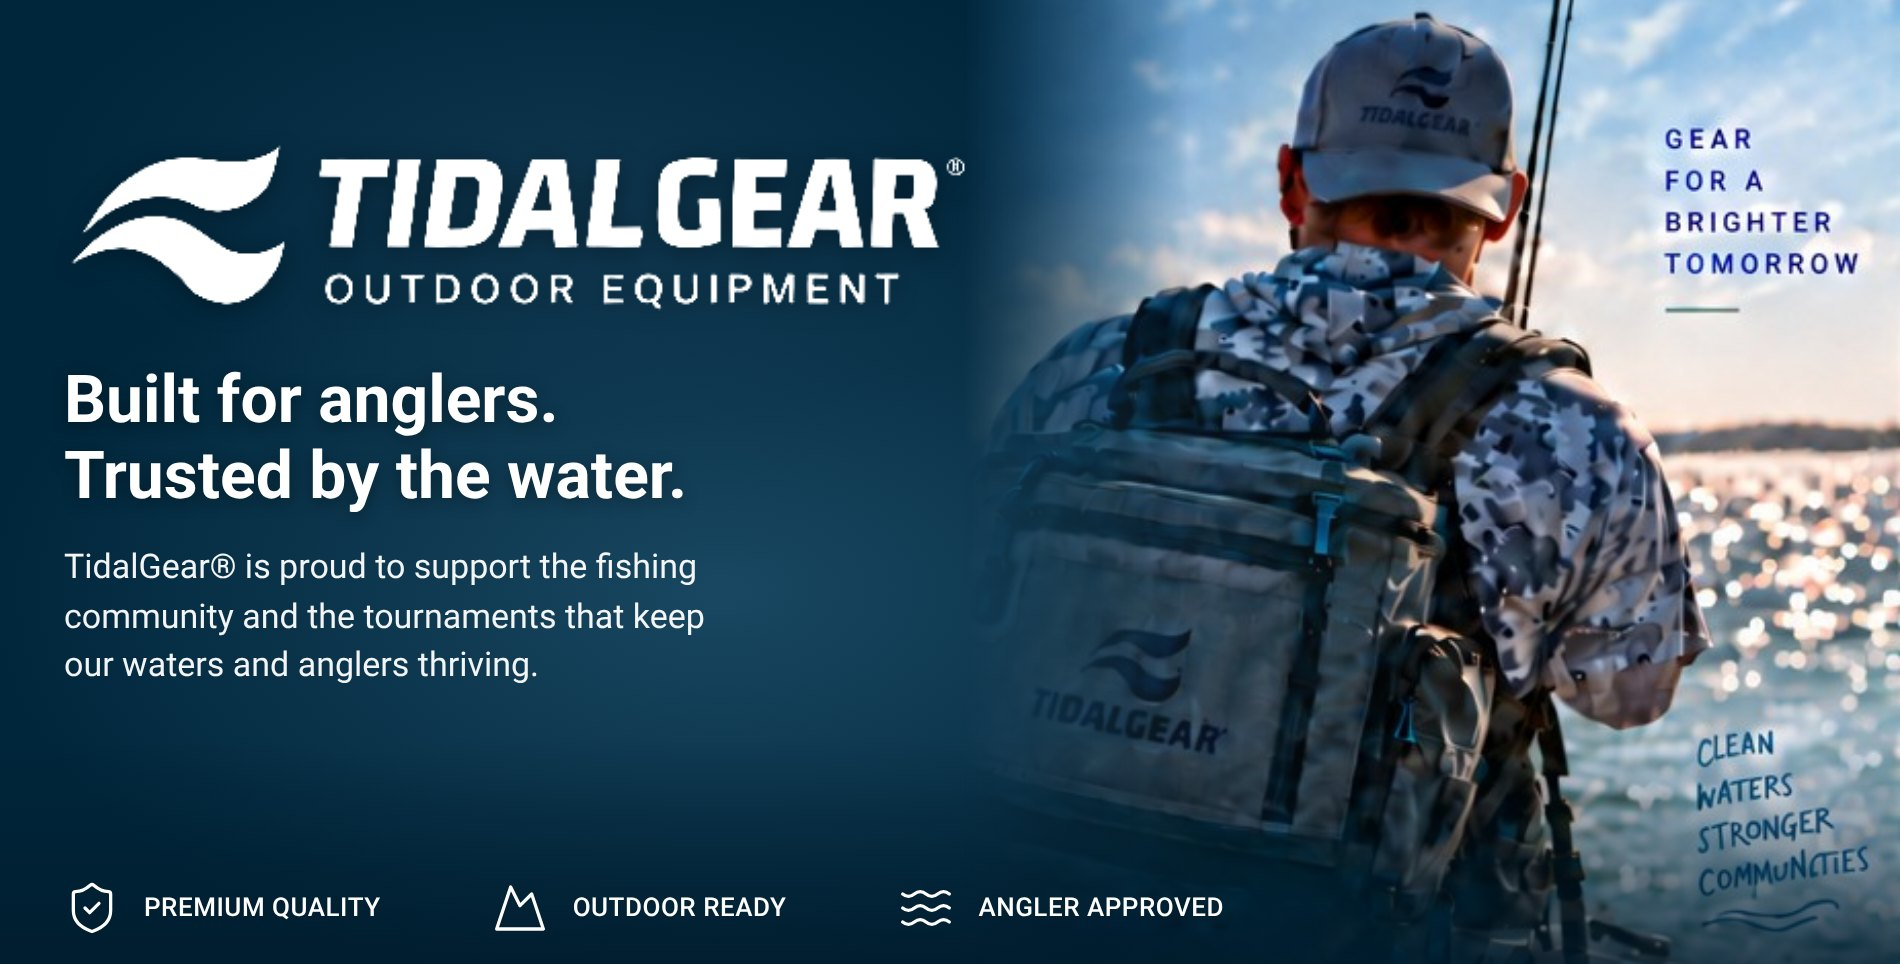
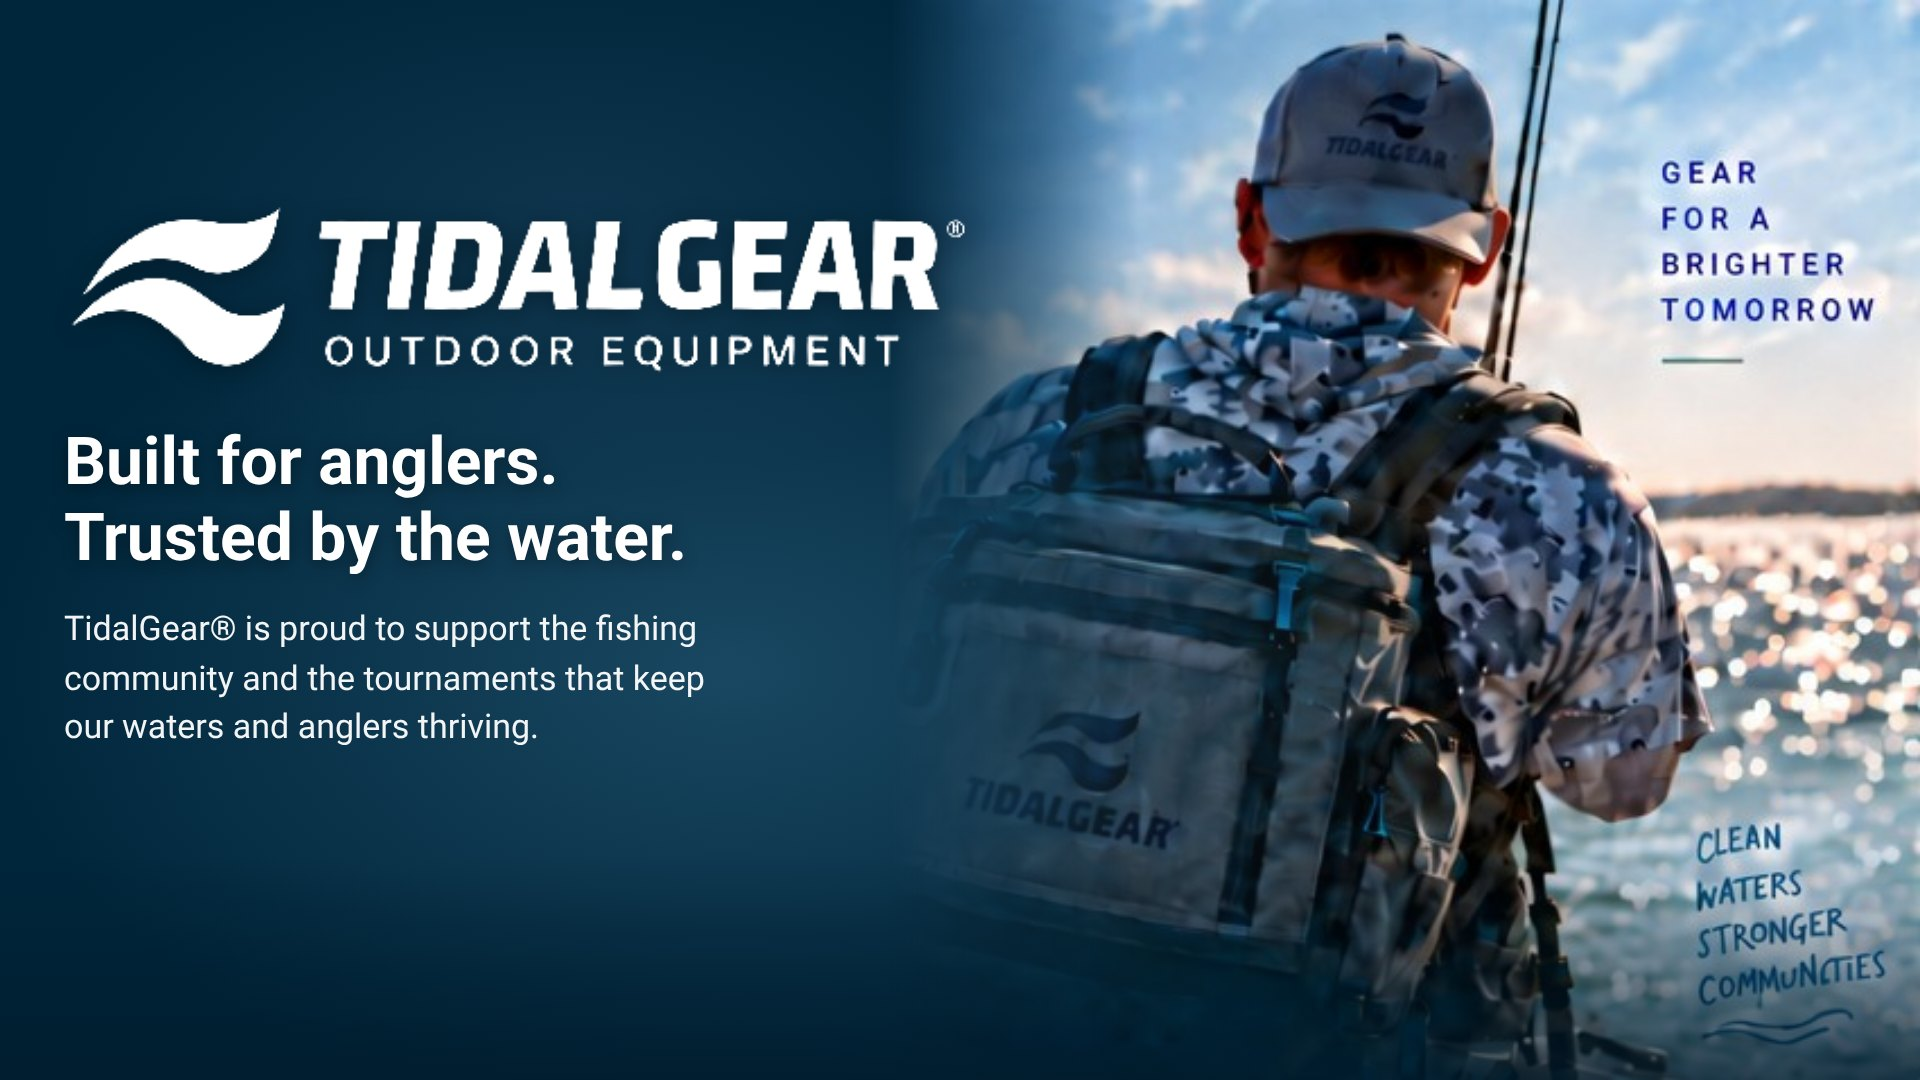
Responsive 16:9 hero at every breakpoint
- Hero is always 16:9; slide image fills it centred (object-cover), no
  blurred bands
- >= 1280px: hero + Live Now side by side; the hero sets the row height
  and the Live Now map grows/shrinks so both cards line up
- 768-1279px: hero full width, Live Now below with details left / map right
- < 768px: hero full width, Live Now stacked below
- Example slides re-exported at 1920x1080; admin now recommends 16:9

Claude-Session: https://claude.ai/code/session_01TeZCeep714KrQBXP31fbxB

diff --git a/src/components/pages/HomePage.tsx b/src/components/pages/HomePage.tsx
@@ -1,7 +1,7 @@
 'use client';
 
 import {
-  Trophy, MapPin, Users, ChevronRight, ArrowRight, ShieldCheck, Mountain, Waves, Navigation,
+  Trophy, MapPin, CalendarDays, Users, ChevronRight, ArrowRight, ShieldCheck, Mountain, Waves,
 } from 'lucide-react';
 import { useEffect, useState } from 'react';
 import { Tournament, Submission, User, SearchParams, HeroSlide, HomeBanner } from '@/types';
@@ -9,7 +9,6 @@ import { getActiveHeroSlides, dbHeroSlideToApp, getActiveHomeBanners, dbHomeBann
 import RecommendedSection from '@/components/home/RecommendedSection';
 import HeroCarousel from '@/components/home/HeroCarousel';
 import LeaderboardSection from '@/components/home/LeaderboardSection';
-import { mapsSearchUrl, mapsDirectionsUrl, mapsEmbedUrl } from '@/lib/eventDetail';
 
 interface HomePageProps {
   tournaments: Tournament[];
@@ -47,9 +46,7 @@ interface LiveTournament {
   day: string;
   elapsed: string;
   lastUpdate: string;
-  /** Google Maps query (same map/links as the event page's Event Location card) */
-  mapQuery: string;
-  address?: string;
+  map: string;
 }
 
 const DEMO_LIVE: LiveTournament = {
@@ -60,8 +57,7 @@ const DEMO_LIVE: LiveTournament = {
   day: 'Day 1 of 3',
   elapsed: '5h 42m',
   lastUpdate: '10:42 AM',
-  mapQuery: 'Lake Hartwell, Hartwell, GA 30643',
-  address: 'Hartwell, GA 30643',
+  map: '/home/live-map.jpg',
 };
 
 interface UpcomingCard {
@@ -72,8 +68,6 @@ interface UpcomingCard {
   anglers?: number | string;
   prizePool?: string;
   image: string;
-  /** Show the Register button only while registration is open */
-  registrationOpen: boolean;
 }
 
 const CARD_IMAGES = [
@@ -86,12 +80,12 @@ const CARD_IMAGES = [
 ];
 
 const DEMO_UPCOMING: UpcomingCard[] = [
-  { id: 'd1', name: 'Coastal Open', dates: 'JUN 7 – 8, 2025', location: 'Charleston, SC', anglers: 200, prizePool: '$100,000', image: CARD_IMAGES[0], registrationOpen: true },
-  { id: 'd2', name: 'Pine Creek Challenge', dates: 'JUN 21 – 22, 2025', location: 'Toledo Bend, TX', anglers: 180, prizePool: '$75,000', image: CARD_IMAGES[1], registrationOpen: false },
-  { id: 'd3', name: 'Summer Slam', dates: 'JUL 12 – 13, 2025', location: 'Lake Okeechobee, FL', anglers: 220, prizePool: '$125,000', image: CARD_IMAGES[2], registrationOpen: true },
-  { id: 'd4', name: 'Mountain Lake Invitational', dates: 'AUG 9 – 10, 2025', location: 'Lake Guntersville, AL', anglers: 160, prizePool: '$80,000', image: CARD_IMAGES[3], registrationOpen: true },
-  { id: 'd5', name: 'Bayou Bash', dates: 'SEP 6 – 7, 2025', location: 'Toledo Bend, LA', anglers: 175, prizePool: '$70,000', image: CARD_IMAGES[4], registrationOpen: true },
-  { id: 'd6', name: 'Fall Classic', dates: 'OCT 18 – 19, 2025', location: 'Lake Murray, SC', anglers: 190, prizePool: '$90,000', image: CARD_IMAGES[5], registrationOpen: true },
+  { id: 'd1', name: 'Coastal Open', dates: 'JUN 7 – 8, 2025', location: 'Charleston, SC', anglers: 200, prizePool: '$100,000', image: CARD_IMAGES[0] },
+  { id: 'd2', name: 'Pine Creek Challenge', dates: 'JUN 21 – 22, 2025', location: 'Toledo Bend, TX', anglers: 180, prizePool: '$75,000', image: CARD_IMAGES[1] },
+  { id: 'd3', name: 'Summer Slam', dates: 'JUL 12 – 13, 2025', location: 'Lake Okeechobee, FL', anglers: 220, prizePool: '$125,000', image: CARD_IMAGES[2] },
+  { id: 'd4', name: 'Mountain Lake Invitational', dates: 'AUG 9 – 10, 2025', location: 'Lake Guntersville, AL', anglers: 160, prizePool: '$80,000', image: CARD_IMAGES[3] },
+  { id: 'd5', name: 'Bayou Bash', dates: 'SEP 6 – 7, 2025', location: 'Toledo Bend, LA', anglers: 175, prizePool: '$70,000', image: CARD_IMAGES[4] },
+  { id: 'd6', name: 'Fall Classic', dates: 'OCT 18 – 19, 2025', location: 'Lake Murray, SC', anglers: 190, prizePool: '$90,000', image: CARD_IMAGES[5] },
 ];
 
 /* ------------------------------ helpers ------------------------------ */
@@ -137,9 +131,6 @@ function toUpcomingCards(tournaments: Tournament[]): UpcomingCard[] {
     location: place(t),
     anglers: t.maxParticipants || undefined,
     image: t.image || CARD_IMAGES[i % CARD_IMAGES.length],
-    // Same rule as the event page: open until the event ends, unless marked completed.
-    // (Upcoming cards only list events that haven't started yet.)
-    registrationOpen: t.status !== 'completed',
   }));
 }
 
@@ -167,8 +158,7 @@ function toLive(tournaments: Tournament[]): LiveTournament | null {
     day: `Day ${dayNum} of ${totalDays}`,
     elapsed: `${Math.floor(mins / 60)}h ${mins % 60}m`,
     lastUpdate: now.toLocaleTimeString([], { hour: 'numeric', minute: '2-digit' }),
-    mapQuery: [t.location, t.city, t.state].filter(Boolean).join(', '),
-    address: [t.city, t.state].filter(Boolean).join(', ') || undefined,
+    map: DEMO_LIVE.map,
   };
 }
 
@@ -232,7 +222,7 @@ function LiveNow({ live, onLeaderboard }: { live: LiveTournament; onLeaderboard:
   return (
     <section aria-label="Live tournament" className="flex flex-col rounded-lg border border-hoox-line bg-white p-[14px] pt-[16px] shadow-[0_2px_10px_rgba(10,30,60,0.06)]">
       <div className="flex items-start justify-between px-[2px]">
-        <h2 className="flex items-center gap-2.5 text-[20px] font-bold leading-none text-hoox-ink">
+        <h2 className="flex items-center gap-2.5 text-[24px] font-bold leading-none text-hoox-ink">
           <span className="relative flex h-[11px] w-[11px]">
             <span className="absolute inline-flex h-full w-full animate-ping rounded-full bg-hoox-teal opacity-60" />
             <span className="relative inline-flex h-[11px] w-[11px] rounded-full bg-hoox-teal" />
@@ -242,24 +232,20 @@ function LiveNow({ live, onLeaderboard }: { live: LiveTournament; onLeaderboard:
         <span className="pt-1 text-[13px] text-hoox-muted">Last update: {live.lastUpdate}</span>
       </div>
 
-      {/* Featured badge + View leaderboard: same height, padding and type size */}
-      <div className="mt-[13px] flex flex-wrap items-center gap-2">
-        <span className="inline-flex w-fit items-center gap-2 rounded-md bg-[#F7A924] px-3.5 py-[6px] text-[12px] font-semibold uppercase text-[#161C36]">
-          <Trophy className="h-4 w-4" fill="currentColor" strokeWidth={1.5} /> Featured Tournament
-        </span>
-        <button
-          onClick={onLeaderboard}
-          className="inline-flex w-fit items-center gap-2 rounded-md bg-gradient-to-r from-[#00253F] via-[#03304F] to-[#00253F] px-3.5 py-[6px] text-[12px] font-semibold uppercase text-white transition hover:brightness-125"
-        >
-          View leaderboard <ArrowRight className="h-4 w-4" strokeWidth={2} />
-        </button>
-      </div>
+      <span className="mt-[13px] inline-flex w-fit items-center gap-2 rounded-md bg-[#F7A924] px-3.5 py-[6px] text-[12px] font-semibold uppercase text-[#161C36]">
+        <Trophy className="h-4 w-4" fill="currentColor" strokeWidth={1.5} /> Featured Tournament
+      </span>
 
       <div className="mt-2.5 flex items-start gap-4 pl-[2px]">
         <img src="/home/live-fish.png" alt="" className="mt-1 h-[58px] w-[74px] flex-shrink-0 object-contain" />
         <div className="min-w-0">
           <h3 className="text-[23px] font-bold leading-tight text-hoox-ink">{live.name}</h3>
-          <p className="mt-0 text-[16px] font-semibold text-[#5884E1]">{live.dates}</p>
+          <p className="mt-1.5 flex items-center gap-3 text-[16px] text-[#5884E1]">
+            <MapPin className="h-5 w-5 text-hoox-ink" strokeWidth={1.75} /> {live.location}
+          </p>
+          <p className="mt-1.5 flex items-center gap-3 text-[16px] text-[#5884E1]">
+            <CalendarDays className="h-5 w-5 text-hoox-ink" strokeWidth={1.75} /> {live.dates}
+          </p>
         </div>
       </div>
 
@@ -270,84 +256,37 @@ function LiveNow({ live, onLeaderboard }: { live: LiveTournament; onLeaderboard:
           { v: live.elapsed, l: 'Elapsed', c: 'text-[#477CD3]' },
         ].map((s, i) => (
           <div key={s.l} className={i > 0 ? 'border-l border-[#B9D4E6]' : ''}>
-            <dd className="text-[18px] font-bold leading-tight text-hoox-ink">{s.v}</dd>
-            <dt className={`mt-0.5 text-[14px] font-semibold ${s.c}`}>{s.l}</dt>
+            <dd className="text-[21px] font-bold leading-tight text-hoox-ink">{s.v}</dd>
+            <dt className={`mt-0.5 text-[14px] ${s.c}`}>{s.l}</dt>
           </div>
         ))}
       </dl>
 
-      {/* Event location — same Google Maps embed, View Larger Map and Get Directions as the event page */}
-      {live.mapQuery && (
-        <div className="mt-[10px]">
-          <div className="flex items-center justify-between px-[2px]">
-            <h4 className="text-[15px] font-bold text-hoox-ink">Event Location</h4>
-            <a
-              href={mapsSearchUrl(live.mapQuery)}
-              target="_blank"
-              rel="noopener noreferrer"
-              className="flex items-center gap-1.5 text-[12.5px] font-semibold text-[#0B6068] hover:text-hoox-brand"
-            >
-              View Larger Map <ArrowRight className="h-4 w-4" strokeWidth={2} />
-            </a>
-          </div>
-          <iframe
-            title={`Map of ${live.location}`}
-            src={mapsEmbedUrl(live.mapQuery)}
-            loading="lazy"
-            referrerPolicy="no-referrer-when-downgrade"
-            className="mt-2 h-[145px] w-full rounded-md border-0 bg-hoox-chip"
-          />
-          <div className="mt-2 flex items-center justify-between gap-3">
-            <div className="flex min-w-0 items-start gap-2.5">
-              <MapPin className="mt-[2px] h-[20px] w-[20px] flex-shrink-0 text-hoox-ink" strokeWidth={2} />
-              <div className="min-w-0">
-                <div className="truncate text-[14px] font-semibold text-hoox-ink">{live.location}</div>
-                {live.address && <div className="truncate text-[12.5px] text-[#6586A8]">{live.address}</div>}
-              </div>
-            </div>
-            <a
-              href={mapsDirectionsUrl(live.mapQuery)}
-              target="_blank"
-              rel="noopener noreferrer"
-              className="flex h-[36px] flex-shrink-0 items-center gap-2.5 rounded-md border border-[#177E84] px-4 text-[13px] font-medium text-[#076869] transition hover:bg-[#EEF9F8]"
-            >
-              <Navigation className="h-[16px] w-[16px]" strokeWidth={2} /> Get Directions
-            </a>
-          </div>
-        </div>
-      )}
+      <img src={live.map} alt={`Map of ${live.location}`} className="mt-[9px] h-[145px] w-full rounded-md object-cover" />
 
+      <button
+        onClick={onLeaderboard}
+        className="mt-3 flex h-[46px] w-full items-center justify-center gap-4 rounded-md bg-gradient-to-r from-[#00253F] via-[#03304F] to-[#00253F] text-[18px] font-medium text-white hover:brightness-125 transition"
+      >
+        View leaderboard <ArrowRight className="h-5 w-5" strokeWidth={2} />
+      </button>
     </section>
   );
 }
 
-function TournamentCard({ t, onOpen, onRegister }: { t: UpcomingCard; onOpen: () => void; onRegister: () => void }) {
+function TournamentCard({ t, onOpen }: { t: UpcomingCard; onOpen: () => void }) {
   return (
-    <div className="group relative flex w-full flex-col sm:flex-row gap-4 rounded-md border border-hoox-line bg-white p-[13px] text-left transition hover:border-hoox-ui hover:shadow-md focus-within:border-hoox-ui">
+    <button
+      onClick={onOpen}
+      className="group flex w-full flex-col sm:flex-row gap-4 rounded-md border border-hoox-line bg-white p-[13px] text-left transition hover:border-hoox-ui hover:shadow-md"
+    >
       <img src={t.image} alt="" className="h-[180px] w-full sm:h-[134px] sm:w-[40%] sm:max-w-[166px] flex-shrink-0 rounded-md object-cover" />
       <div className="flex min-w-0 flex-1 flex-col pt-[4px]">
-        <div className="flex items-start justify-between gap-2 pr-6">
-          <div className="flex flex-nowrap items-center gap-2">
-            <span className="inline-flex h-[27px] items-center whitespace-nowrap rounded bg-hoox-chip px-[10px] text-[13px] font-medium text-[#1A2C9F]">{t.dates}</span>
-            {t.registrationOpen && (
-              <button
-                type="button"
-                onClick={onRegister}
-                aria-label={`Register for ${t.name}`}
-                className="relative z-10 inline-flex h-[27px] flex-shrink-0 items-center rounded bg-gradient-to-b from-[#F7C23C] to-[#F2AE24] px-3 text-[13px] font-semibold text-[#0B1636] shadow-sm transition hover:brightness-105 focus:outline-none focus-visible:ring-2 focus-visible:ring-hoox-ui"
-              >
-                Register
-              </button>
-            )}
-          </div>
-          <ChevronRight className="absolute bottom-4 right-3 h-6 w-6 text-hoox-ink transition group-hover:translate-x-0.5 sm:bottom-auto sm:top-[62px]" strokeWidth={2} aria-hidden />
+        <div className="flex items-start justify-between gap-2">
+          <span className="whitespace-nowrap rounded bg-hoox-chip px-[11px] py-[4px] text-[14px] font-medium text-[#1A2C9F]">{t.dates}</span>
+          <ChevronRight className="mt-6 h-6 w-6 flex-shrink-0 text-hoox-ink transition group-hover:translate-x-0.5" strokeWidth={2} />
         </div>
-        <h3 className="mt-2 pr-7 text-[20px] font-bold leading-[1.15] tracking-[-0.01em] text-hoox-ink line-clamp-2">
-          {/* Stretched link: the whole card opens the event page */}
-          <button type="button" onClick={onOpen} className="text-left after:absolute after:inset-0 after:content-[''] focus:outline-none">
-            {t.name}
-          </button>
-        </h3>
+        <h3 className="-mt-1 pr-1 text-[20px] font-bold leading-[1.15] tracking-[-0.01em] text-hoox-ink line-clamp-2">{t.name}</h3>
         {t.location && (
           <p className="mt-2 flex items-center gap-2.5 text-[15px] text-[#5884E1]">
             <MapPin className="h-[17px] w-[17px] flex-shrink-0 text-hoox-ink" strokeWidth={1.75} />
@@ -368,7 +307,7 @@ function TournamentCard({ t, onOpen, onRegister }: { t: UpcomingCard; onOpen: ()
           )}
         </div>
       </div>
-    </div>
+    </button>
   );
 }
 
@@ -428,9 +367,6 @@ export default function HomePage({ tournaments, onNavigate }: HomePageProps) {
         {/* We recommend (sponsor banners) */}
         <RecommendedSection banners={banners} onNavigate={onNavigate} />
 
-        {/* Leaderboards */}
-        <LeaderboardSection onNavigate={onNavigate} />
-
         {/* Upcoming tournaments */}
         <section aria-labelledby="upcoming-heading" className="rounded-lg bg-white px-3 sm:px-[12px] pt-[12px] pb-[12px] shadow-[0_2px_10px_rgba(10,30,60,0.05)]">
           <div className="flex flex-wrap items-end justify-between gap-2 px-2 pb-[13px]">
@@ -439,23 +375,21 @@ export default function HomePage({ tournaments, onNavigate }: HomePageProps) {
               <p className="text-[16px] font-light text-[#869FE6]">Discover upcoming events and get ready to compete.</p>
             </div>
             <button
-              onClick={() => onNavigate('tournaments')}
+              onClick={() => onNavigate('events')}
               className="mb-4 flex items-center gap-2 text-[17px] font-medium text-[#016F8C] hover:text-hoox-brand transition"
             >
-              View all tournaments <ArrowRight className="h-5 w-5" strokeWidth={2} />
+              View all events <ArrowRight className="h-5 w-5" strokeWidth={2} />
             </button>
           </div>
           <div className="grid grid-cols-1 md:grid-cols-2 xl:grid-cols-3 gap-[13px]">
             {upcoming.map((t) => (
-              <TournamentCard
-                key={t.id}
-                t={t}
-                onOpen={() => onNavigate(`tournaments/${/^d\d+$/.test(t.id) ? 'lakefront-classic' /* demo cards open the demo event */ : t.id}`)}
-                onRegister={() => onNavigate('register-angler')}
-              />
+              <TournamentCard key={t.id} t={t} onOpen={() => onNavigate(`tournaments/${/^d\d+$/.test(t.id) ? 'lakefront-classic' /* demo cards open the demo event */ : t.id}`)} />
             ))}
           </div>
         </section>
+
+        {/* Leaderboard */}
+        <LeaderboardSection onNavigate={onNavigate} />
       </div>
     </div>
   );

diff --git a/src/components/home/HeroCarousel.tsx b/src/components/home/HeroCarousel.tsx
@@ -114,20 +114,11 @@ export default function HeroCarousel({ slides, fallback }: HeroCarouselProps) {
               active ? 'opacity-100 z-[1]' : 'opacity-0 z-0 pointer-events-none'
             }`}
           >
-            {/* The hero box can be taller or wider than the artwork (it matches the
-                Live Now card's height), so never crop the slide: show the whole image,
-                and fill any leftover space with a blurred copy of the same image. */}
-            <img
-              src={s.imageUrl}
-              alt=""
-              aria-hidden
-              className="absolute inset-0 h-full w-full scale-110 object-cover blur-2xl brightness-75"
-            />
             <img
               src={s.imageUrl}
               alt={s.title}
               loading={i === 0 ? 'eager' : 'lazy'}
-              className="absolute inset-0 h-full w-full object-contain"
+              className="absolute inset-0 h-full w-full object-cover"
             />
             {s.buttonLabel && s.buttonUrl && (
               <div className={`absolute bottom-7 sm:bottom-11 flex flex-col ${BUTTON_POSITION[s.buttonPosition]}`}>
